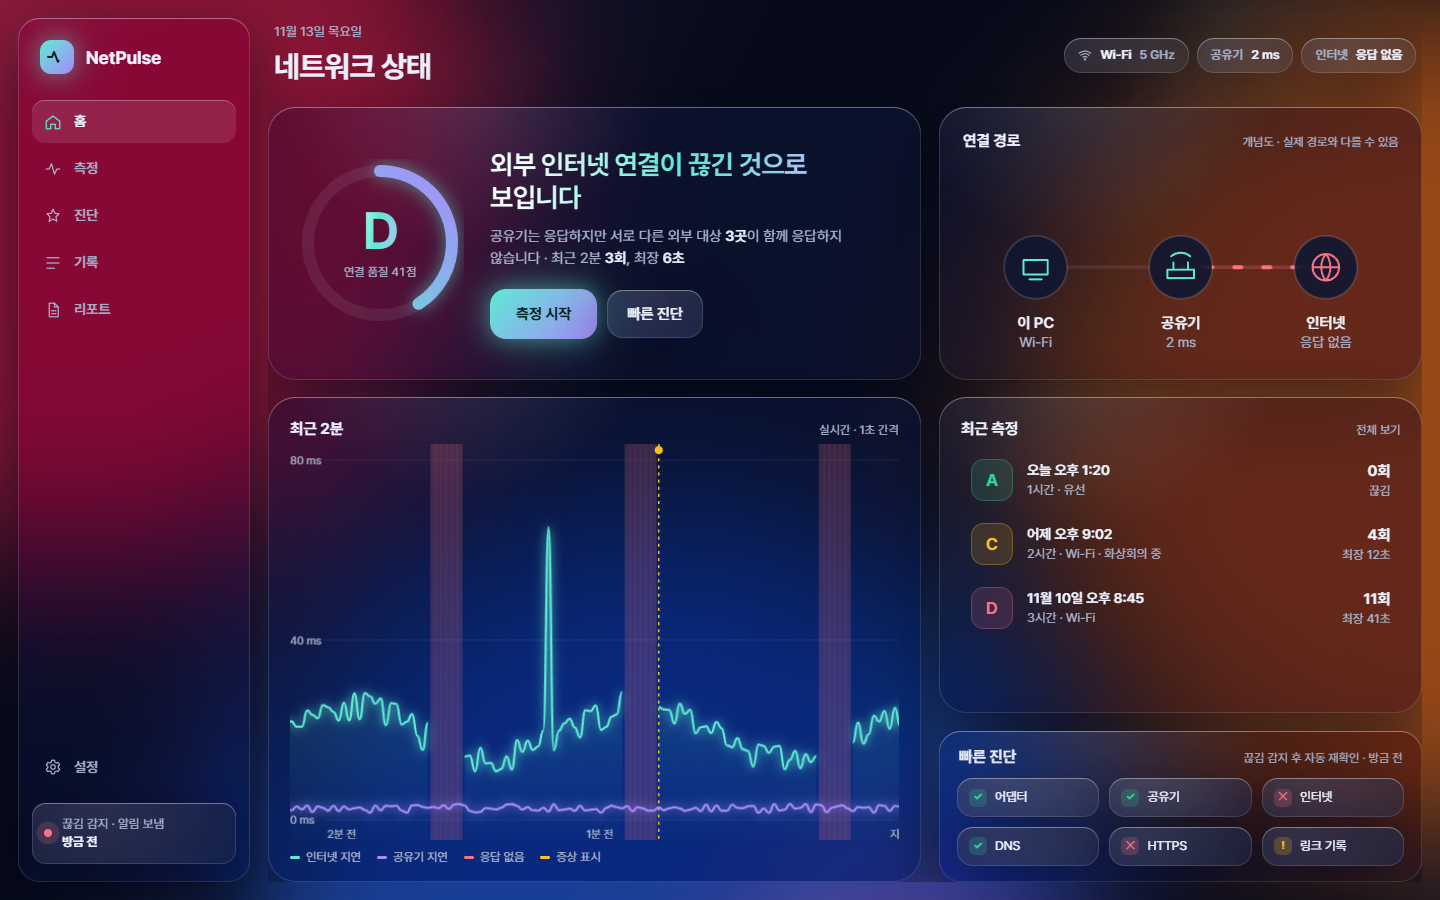
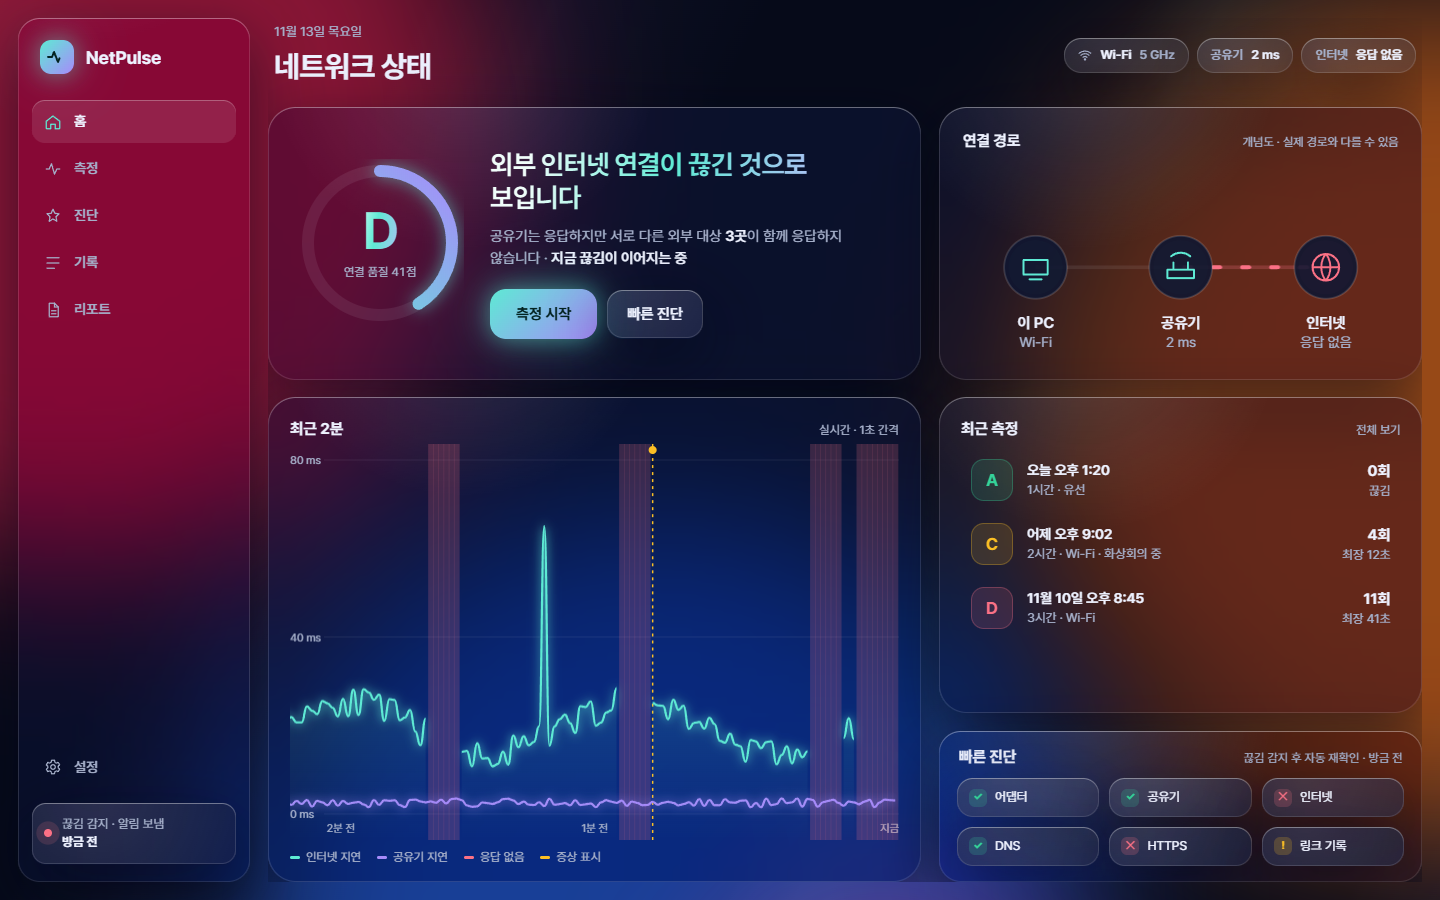
Record M0 results measured from 39c2612 and fix the mockup canvas size
All three spikes were measured again from a clean commit with the
in-app hidden-window timing. The generated table, public captures, and
report figures now come from that run. The mockup timeline measured its
canvas while the entry animation still scaled the card, which clipped
the right edge; it now uses the untransformed client size.

Changed region(s): [[0.1875, 0.4667, 0.625, 0.9333], [0.375, 0.28, 0.4688, 0.3111], [0.1875, 0.6844, 0.2188, 0.7156]]

diff --git a/spikes/design/home-mockups.html b/spikes/design/home-mockups.html
@@ -240,7 +240,10 @@ main { min-width: 0; display: grid; grid-template-columns: 1.35fr 1fr; grid-temp
 
 /* --- 타임라인 --- */
 .timeline { grid-column: 1; padding: 20px 22px 16px; display: flex; flex-direction: column; min-height: 0; border-radius: var(--radius-xl); }
-.timeline canvas { width: 100%; flex: 1; min-height: 0; display: block; }
+/* 캔버스가 배치 계산에 끼어들지 않게 감싸는 상자 안에 절대 위치로 둔다 */
+.timeline { min-width: 0; }
+.plot { position: relative; flex: 1; min-height: 0; }
+.plot canvas { position: absolute; inset: 0; width: 100%; height: 100%; display: block; }
 .legend { display: flex; gap: 16px; font-size: 12px; color: var(--muted); margin-top: 8px; }
 .legend i { display: inline-block; width: 10px; height: 3px; border-radius: 2px; margin-right: 6px; vertical-align: middle; }
 
@@ -352,7 +355,7 @@ main { min-width: 0; display: grid; grid-template-columns: 1.35fr 1fr; grid-temp
 
     <section class="glass content timeline rise" style="--i:4" aria-label="최근 2분 타임라인">
       <div class="card-head"><span class="card-title">최근 2분</span><span class="card-note" id="liveNote">실시간 · 1초 간격</span></div>
-      <canvas id="chart"></canvas>
+      <div class="plot"><canvas id="chart"></canvas></div>
       <div class="legend"><span><i style="background:var(--accent)"></i>인터넷 지연</span><span><i style="background:var(--accent-2)"></i>공유기 지연</span><span><i style="background:var(--bad)"></i>응답 없음</span><span><i style="background:var(--warn)"></i>증상 표시</span></div>
     </section>
 
@@ -453,8 +456,10 @@ if (state === 'problem') problemSince = N - 6;
 for (; tick < N; tick++) { const s = sample(tick); net.push(s.net); gw.push(s.gw); }
 const marks = [N - 46];
 setInterval(() => { const s = sample(tick++); net.push(s.net); gw.push(s.gw); net.shift(); gw.shift(); marks.forEach((m, k) => marks[k] = m - 1); lastArrival = performance.now(); }, 1000);
-function resize() { const r = canvas.getBoundingClientRect(), d = devicePixelRatio || 1; canvas.width = r.width * d; canvas.height = r.height * d; ctx.setTransform(d, 0, 0, d, 0, 0); }
-addEventListener('resize', resize);
+// getBoundingClientRect는 등장 애니메이션의 축소(scale)까지 반영하므로 변형과 무관한 clientWidth로 잰다.
+function resize() { const d = devicePixelRatio || 1; canvas.width = canvas.clientWidth * d; canvas.height = canvas.clientHeight * d; ctx.setTransform(d, 0, 0, d, 0, 0); }
+// 배치가 끝난 뒤나 창 크기가 바뀔 때마다 캔버스 화소 크기를 실제 표시 크기에 맞춘다.
+new ResizeObserver(resize).observe(canvas);
 function curve(points) {
   ctx.moveTo(points[0][0], points[0][1]);
   for (let i = 1; i < points.length; i++) {

diff --git a/docs/loop/m0/spike-report.md b/docs/loop/m0/spike-report.md
@@ -3,8 +3,8 @@
 - 측정일: 2026-11-13. 환경: Windows 11 빌드 26300, 165 Hz 화면, 배율 100%, 관리자 권한 없음
 - 합격선: `docs/loop/DECISIONS.md` "M0 스파이크 합격선" (측정 전에 커밋 `875dd28`로 기록)
 - **수치 판정표: [`spike-results.md`](spike-results.md)** — 측정 요약 JSON에서 `spikes/tools/make-results.mjs`가 만든다. 이 보고서는 수치를 옮겨 적지 않고 그 표를 근거로 쓴다.
-- 측정한 소스: 커밋 `9540198`, 깨끗한 작업트리. 세 후보 모두 `spikes/tools/run-spike.ps1` 하나로 빌드부터 캡처까지 돈다.
-- 원본 로그: `.loop/logs/m0-r3/` (커밋 제외)
+- 측정한 소스: 커밋 `39c2612`, 깨끗한 작업트리. 세 후보 모두 `spikes/tools/run-spike.ps1` 하나로 빌드부터 캡처까지 돈다.
+- 원본 로그: `.loop/logs/m0-r4/` (커밋 제외). 실행마다 이름 붙여 보존한다(시작 2회, 벤치, 숨김, 유리, 대체 동작, 쓰기 금지). 자원 표본 원본은 `resources-<후보>.json`.
 
 ## 후보
 
@@ -37,10 +37,10 @@
 
 ### P3 메모리 — 불합격의 내용
 
-- A는 WebView2가 프로세스 7개를 띄운다. 작업 집합 합계의 10초 최대값이 합격선 400 MB를 넘었다 (A-net10 570 MB, A-net48 488 MB).
-- 작업 집합 합계는 프로세스 사이 공유 페이지를 여러 번 센다. 공유분을 뺀 전용 작업 집합도 보조로 쟀다 (A-net10 최대 211 MB, A-net48 168 MB, C 41 MB). 전용 작업 집합도 앱의 전체 메모리 비용과 같지는 않다.
+- A는 WebView2가 프로세스 7개를 띄운다. 작업 집합 합계의 10초 최대값이 합격선 400 MB를 넘었다 (A-net10 574 MB, A-net48 488 MB).
+- 작업 집합 합계는 프로세스 사이 공유 페이지를 여러 번 센다. 공유분을 뺀 전용 작업 집합도 보조로 쟀다 (A-net10 최대 213 MB, A-net48 167 MB, C 41 MB). 전용 작업 집합도 앱의 전체 메모리 비용과 같지는 않다.
 - **합격선은 측정 전에 정한 그대로 적용했다.** 이 기준을 완화할지는 사용자 결정 사항으로 올린다.
-- 본체를 .NET Framework 4.8로 바꾸면 약 80 MB 줄지만 합격선 아래로는 내려가지 않는다. 대부분이 WebView2 몫이다.
+- 본체를 .NET Framework 4.8로 바꾸면 약 85 MB 줄지만 합격선 아래로는 내려가지 않는다. 대부분이 WebView2 몫이다.
 
 ### P9 대체 동작 — 캡처와 코드 판정
 
@@ -51,10 +51,10 @@
 ### 항목별 메모
 
 - **P2**: 세 후보 모두 화면 주사율(165 Hz)에 붙어 이 장면으로는 차이가 나지 않았다. 측정 방식은 다르다. A는 웹 화면의 `requestAnimationFrame`, C는 `CompositionTarget.Rendering` 간격이다. 둘 다 앱이 받는 프레임 콜백이고 화면에 실제로 표시된 프레임과 같지 않을 수 있다.
-- **P4**: 장면을 돌리며 75초 동안 76회차를 기록했다. 회차마다 예정·실제 시각을 남겨 중복·누락·지연을 원본에서 계산했다.
-- **P5**: 30초 숨긴 뒤 다시 보인 순간부터 100 ms마다 화면의 회차 번호를 읽어, 복귀 시점의 최신 회차가 표시될 때까지 걸린 시간을 쟀다.
+- **P4**: 장면을 돌리며 실제 시각 약 75초 동안 0~75번 76회차를 기록했다. 회차마다 예정·실제 시각을 남겨 중복·누락·지연을 원본에서 계산했다. 시험 시간은 회차 번호 범위가 아니라 첫·마지막 회차의 실제 시각 차이로 판정하고, 0번부터 시작하지 않으면 불합격이다.
+- **P5**: 앱 안에서 잰다. 창을 다시 띄운 순간에 최신 회차를 기억하고, 그 회차 이상이 화면에 그려진 프레임까지의 시간이다. A는 웹 화면이 번호를 고친 다음 프레임에 본체로 알리고, C는 렌더 프레임 콜백에서 화면 글자를 확인한다. 둘 다 "앱이 받는 프레임"이고 모니터에 표시된 시각과 같지 않을 수 있다. 바깥 도구가 읽은 값은 보조로 남겼다(도구 지연 포함).
 - **P6**: 세 후보 모두 ICMP, 시스템 이벤트 로그 읽기, 최적 인터페이스 조회, 인터페이스 상태 읽기가 됐다. **A-net48은 인터페이스를 .NET 10보다 훨씬 적게 열거했다**(로그에 개수 기록, 화면에는 표시하지 않음). 원인은 확인하지 않았다. 제품 엔진(M3·M4)에서 인터페이스 관측을 설계할 때 확인할 항목이다.
-- **P7**: 첫 실행은 사용자 데이터 폴더를 지운 상태에서 쟀다. C의 첫 실행이 1.76초로 가장 느리다. 단일 파일이 처음에 내용을 푸는 시간으로 추정한다. 쓰기 금지 폴더(파일 만들기·쓰기 거부)에서 세 후보 모두 시작했다.
+- **P7**: 첫 실행은 사용자 데이터 폴더를 지운 상태에서 쟀다. C의 첫 실행이 1.77초로 가장 느리다. 단일 파일이 처음에 내용을 푸는 시간으로 추정한다. 쓰기 금지 폴더(파일 만들기·쓰기 거부)에서 세 후보 모두 시작했다.
 - **P8**: A는 WebView2 원격 디버깅 포트를 자동화 실행에서만 열고 Playwright로 붙었다. C는 Windows UI Automation으로 조작했고, 이를 위해 코드에서 만든 컨트롤마다 AutomationId를 붙였다. 한글 입력은 두 안 모두 유니코드 문자 입력으로만 확인했다. 입력기 조합은 확인하지 않았다.
 
 ## 표현력 비교 (합격선 밖, 추천 근거)
@@ -84,7 +84,7 @@
 | | C로 간다 (합격선대로) | A로 간다 (메모리 기준을 사용자가 완화) |
 | --- | --- | --- |
 | 장점 | 가볍다 (CPU 약 2%, 메모리 약 146 MB, 프로세스 1개). 측정한 모든 항목 통과 | 유리·광택·전환을 가장 자유롭게. 디자인 시안을 그대로 옮김. A-net48이면 배포 1.1 MB |
-| 단점 | 블러 강도 고정, 고급 효과는 Composition으로 직접 작성. 시안 재현에 품이 듦 | 메모리 490~570 MB (전용 170~210 MB), 프로세스 7개. 상주 앱으로는 무거움 |
+| 단점 | 블러 강도 고정, 고급 효과는 Composition으로 직접 작성. 시안 재현에 품이 듦 | 메모리 488~574 MB (전용 167~213 MB), 프로세스 7개. 상주 앱으로는 무거움 |
 | 위험 | 고른 시안의 무지갯빛 테두리·원형 확산·흐르는 빛을 같은 품질로 낼 수 있는지 **미확인** | 하루 종일 켜 둘 때의 체감 부담. 장시간 메모리 증가는 재지 않음 |
 | 확정 전 추가 확인 | 고른 시안의 대표 카드·유리 겹침·테마 전환을 C로 재현해 비교 (M0 안에서) | 사용자가 승인한 새 메모리 예산을 기록하고, 그 예산으로 다시 판정 |
 

diff --git a/docs/loop/m0/spike-results.md b/docs/loop/m0/spike-results.md
@@ -3,18 +3,19 @@
 | 항목 | 합격선 | A-net10 | A-net48 | C |
 | --- | --- | --- | --- | --- |
 | P1 창 안쪽 유리 | 패널 뒤가 흐려 보임 | 캡처 판정 | 캡처 판정 | 캡처 판정 |
-| P2 프레임 (정지 장면) | 평균 55 fps↑, 95백분위 25 ms↓ | 165 fps / 6.2 ms | 165 fps / 6.2 ms | 165 fps / 6.2 ms |
-| 　테마 반복 전환 중 (6초) |  | 164.3 / 6.2 | 164 / 6.2 | 164.8 / 6.2 |
-| 　화면 반복 전환 중 (6초) |  | 163.5 / 6.2 | 163.7 / 6.2 | 164.8 / 6.2 |
-| P3 CPU (10초, 전체 코어 기준) | 15%↓ | 6.07% | 6.27% | 2.1% |
-| 　메모리 작업 집합 합계 (평균 / 최대) | 최대 400 MB↓ | 540.9 / 569.7 MB | 462.1 / 488.4 MB | 143.9 / 146.2 MB |
-| 　(보조) 전용 작업 집합 (평균 / 최대) | 판정에 안 씀 | 185.3 / 210.5 MB | 145.4 / 167.7 MB | 39 / 40.5 MB |
+| P2 프레임 (정지 장면) | 평균 55 fps↑, 95백분위 25 ms↓ | 164.9 fps / 6.2 ms | 165 fps / 6.2 ms | 165 fps / 6.2 ms |
+| 　테마 반복 전환 중 (6초) |  | 164.3 / 6.2 | 164.2 / 6.2 | 164.8 / 6.2 |
+| 　화면 반복 전환 중 (6초) |  | 163.5 / 6.2 | 163.5 / 6.2 | 164.5 / 6.2 |
+| P3 CPU (10초, 전체 코어 기준) | 15%↓ | 6.89% | 6.61% | 2.18% |
+| 　메모리 작업 집합 합계 (평균 / 최대) | 최대 400 MB↓ | 541.7 / 574.1 MB | 460 / 488.3 MB | 144.5 / 146.4 MB |
+| 　(보조) 전용 작업 집합 (평균 / 최대) | 판정에 안 씀 | 186.6 / 212.6 MB | 141.8 / 167.2 MB | 39.5 / 40.8 MB |
 | 　관측된 프로세스 수 |  | 7 | 7 | 1 |
-| P4 측정 영향 | 60초 이상, 중복·누락 0, 지연 최대 100 ms↓ | 76초 76회차, 중복 0, 누락 0, 최대 15.3 ms | 76초 76회차, 중복 0, 누락 0, 최대 25.5 ms | 76초 76회차, 중복 0, 누락 0, 최대 15.3 ms |
-| P5 30초 숨김 후 | 누락 0, 5초 안에 최신 회차 | 누락 0, 30 ms 만에 40 (복귀 시 최신 40) | 누락 0, 35 ms 만에 40 (복귀 시 최신 40) | 누락 0, 18 ms 만에 40 (복귀 시 최신 40) |
-| P6 비관리자 진단 API | 네 API 모두 응답 | 4/4 | 4/4 | 4/4 |
+| P4 측정 영향 | 실제 시각 60초 이상, 0번부터 중복·누락 0, 지연 최대 100 ms↓ | 75초, 0~75번 76회차, 중복 0, 누락 0, 최대 14.4 ms | 75초, 0~75번 76회차, 중복 0, 누락 0, 최대 25 ms | 75.01초, 0~75번 76회차, 중복 0, 누락 0, 최대 14.6 ms |
+| P5 30초 숨김 후 (앱 안에서 잼) | 누락 0, 다시 보인 뒤 5초 안에 최신 회차 | 누락 0, 16.3 ms 만에 40번 표시 (복귀 시 최신 40) | 누락 0, 17.5 ms 만에 40번 표시 (복귀 시 최신 40) | 누락 0, 16.8 ms 만에 40번 표시 (복귀 시 최신 40) |
+| 　(보조) 바깥에서 읽은 값 | 최신 회차 이상 | 40 (다시 보인 뒤 757 ms, 도구 지연 포함) | 40 (다시 보인 뒤 616 ms, 도구 지연 포함) | 40 (다시 보인 뒤 88 ms, 도구 지연 포함) |
+| P6 비관리자 진단 API | 관리자 아님, 네 API 모두 결과 또는 명시적 실패 | 4/4 성공 | 4/4 성공 | 4/4 성공 |
 | P7 배포 크기 (파일 수) | 300 MB↓ | 49.7 MB (4) | 1.1 MB (10) | 94 MB (3) |
-| 　첫 실행 / 두 번째 실행 시작 | 두 번째 3초↓ | 0.88 / 0.86초 | 0.72 / 0.68초 | 1.76 / 0.53초 |
+| 　첫 실행 / 두 번째 실행 시작 | 두 번째 3초↓ | 1.04 / 0.86초 | 0.76 / 0.68초 | 1.77 / 0.51초 |
 | 　쓰기 금지 폴더에서 시작 | 가능 | 가능 | 가능 | 가능 |
 | P8 자동화 | 스크립트 하나로 끝까지 | 통과 | 통과 | 통과 |
 | P9 대체 동작 | 설정 읽기 + 대체 화면 | 캡처 판정 | 캡처 판정 | 캡처 판정 |
@@ -24,8 +25,8 @@
 
 | 후보 | 측정 시각 | 소스 커밋 (작업트리) | SDK | 빌드 명령 | 실행 파일 SHA-256 |
 | --- | --- | --- | --- | --- | --- |
-| A-net10 | 2026-11-13T03:48:58.4972629+09:00 | `9540198` (깨끗함) | 10.0.103 | `dotnet publish spikes\a-webview\SpikeA.csproj -c Release -f net10.0-windows -r win-x64 --self-contained true -p:PublishSingleFile=true -p:IncludeNativeLibrariesForSelfExtract=true -p:EnableCompressionInSingleFile=true -o <out>` | `6314047B69DBDCA1…` |
-| A-net48 | 2026-11-13T03:45:39.8199818+09:00 | `9540198` (깨끗함) | 10.0.103 | `dotnet publish spikes\a-webview\SpikeA.csproj -c Release -f net48 -o <out>` | `A3B1860012D448A7…` |
-| C | 2026-11-13T03:42:10.1964976+09:00 | `9540198` (깨끗함) | 10.0.103 | `dotnet publish spikes\c-winui\SpikeC.csproj -c Release -r win-x64 --self-contained true -p:EnableMsixTooling=true -p:PublishSingleFile=true -p:IncludeNativeLibrariesForSelfExtract=true -p:EnableCompressionInSingleFile=true -o <out>` | `94093E40411B037D…` |
+| A-net10 | 2026-11-13T04:12:37.3271077+09:00 | `39c2612` (깨끗함) | 10.0.103 | `dotnet publish spikes\a-webview\SpikeA.csproj -c Release -f net10.0-windows -r win-x64 --self-contained true -p:PublishSingleFile=true -p:IncludeNativeLibrariesForSelfExtract=true -p:EnableCompressionInSingleFile=true -o <out>` | `BBF382314CCB016A…` |
+| A-net48 | 2026-11-13T04:09:19.1306291+09:00 | `39c2612` (깨끗함) | 10.0.103 | `dotnet publish spikes\a-webview\SpikeA.csproj -c Release -f net48 -o <out>` | `600FF4F9E41BC795…` |
+| C | 2026-11-13T04:05:32.8103057+09:00 | `39c2612` (깨끗함) | 10.0.103 | `dotnet publish spikes\c-winui\SpikeC.csproj -c Release -r win-x64 --self-contained true -p:EnableMsixTooling=true -p:PublishSingleFile=true -p:IncludeNativeLibrariesForSelfExtract=true -p:EnableCompressionInSingleFile=true -o <out>` | `55D5B4E031F6B534…` |
 
 WebView2 런타임: A-net10 157.0.4341.46, A-net48 157.0.4341.46

diff --git a/docs/loop/DECISIONS.md b/docs/loop/DECISIONS.md
@@ -97,3 +97,6 @@
 | STATE의 순서 표현 | "조건부 선호 → (C면) 재현 확인 → D1 최종 확정"으로 고침 |
 
 누적 실패: 2 / 8 (G4 2라운드). 다음 3라운드가 리뷰 상한이다.
+
+- 재측정: 커밋 `39c2612`, 깨끗한 작업트리. 원본 `.loop/logs/m0-r4/`.
+- **시안에서 찾은 버그 (제품 교훈)**: 타임라인 오른쪽 끝 글자가 잘렸다. 등장 애니메이션이 카드를 살짝 축소(`scale(.985)`)한 상태에서 `getBoundingClientRect`로 캔버스 크기를 재서, 캔버스 화소 폭이 실제 표시 폭보다 좁게 잡혔다. 변형과 무관한 `clientWidth`로 재고, 크기가 바뀔 때마다(`ResizeObserver`) 다시 맞추도록 고쳤다. 제품의 차트도 같은 방식으로 잰다.
